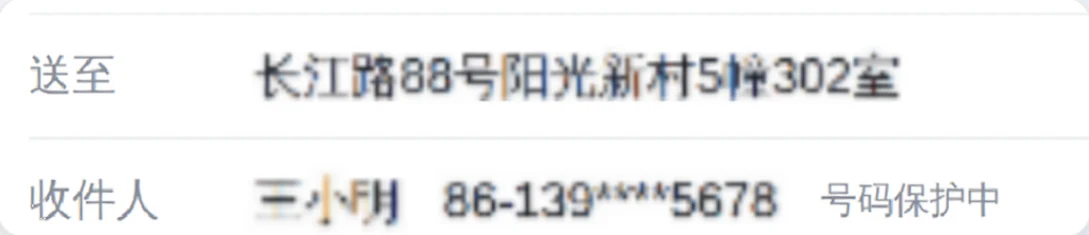
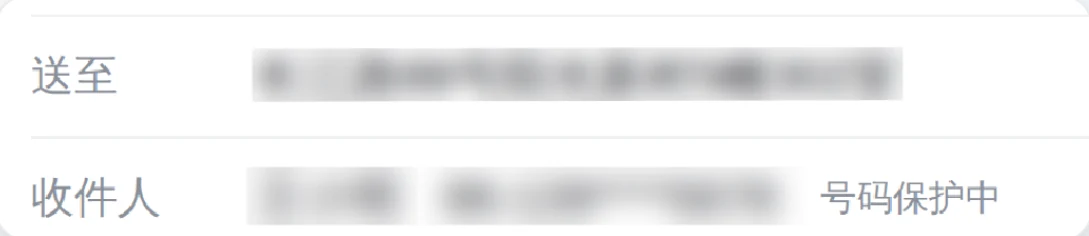
docs: five styles, no 表情 or 抹除 in README, site or Play listing
表情 is gone and 抹除 became 色块's 近似色, so the docs list 色块, 马赛克,
模糊, 马克笔, 画笔 to match MaskStyleInfo.ORDER. The site drops the 表情
and 抹除 tiles and gains a 画笔 one; the callout no longer says the app
warns about weak styles. Mosaic and blur now default to the middle
setting, so the tiles stop saying they can only go stronger.

styles.png is re-shot from the current editor: the style bar's reminder
row is gone and all five shots put the sample at the same height, so
one crop offset replaces y0/y39. The site tiles are re-cropped from it.

diff --git a/site/index.html b/site/index.html
@@ -200,47 +200,42 @@
       <div class="wrap">
         <header class="sec-head">
           <p class="eyebrow">打码样式</p>
-          <h2 id="styles-title">六种样式，每一块码各用各的。</h2>
-          <p class="lead">预览和导出用同一套渲染器，导出的就是你看到的。下面六张图裁自应用在样图上的真实渲染。</p>
+          <h2 id="styles-title">五种样式，每一块码各用各的。</h2>
+          <p class="lead">预览和导出用同一套渲染器，导出的就是你看到的。下面五张图裁自应用在样图上的真实渲染。</p>
         </header>
         <!-- 小图由 tools/site/crop_style_tiles.py 从 docs/readme/styles.png 裁出 -->
         <ul class="tiles">
           <li class="tile">
             <div class="tile-head"><h3>色块</h3><span class="badge badge-safe">不可还原</span></div>
             <img src="img/style-solid.webp" width="1089" height="235" loading="lazy" decoding="async" alt="色块样式：地址、人名和电话被不透明的天蓝色块盖住">
-            <p>默认样式。颜色可以选预设、自定义，也能用吸管从图上取。</p>
-          </li>
-          <li class="tile">
-            <div class="tile-head"><h3>表情</h3><span class="badge badge-safe">不可还原</span></div>
-            <img src="img/style-emoji.webp" width="1089" height="235" loading="lazy" decoding="async" alt="表情样式：深色底块上放着笑脸表情">
-            <p>20 个表情，底色可调，放一个或者排满一行。</p>
-          </li>
-          <li class="tile">
-            <div class="tile-head"><h3>抹除</h3><span class="badge badge-safe">不可还原</span></div>
-            <img src="img/style-erase.webp" width="1089" height="236" loading="lazy" decoding="async" alt="抹除样式：文字所在的区域被周围的白色填平，看不出原来有字">
-            <p>用周围的颜色把区域填平。背景太复杂时改用色块。</p>
+            <p>默认样式。颜色可以选预设、自定义、用吸管从图上取，或者取周围的近似色。</p>
           </li>
           <li class="tile">
             <div class="tile-head"><h3>马赛克</h3><span class="badge badge-warn">可能被还原</span></div>
             <img src="img/style-pixelate.webp" width="1089" height="235" loading="lazy" decoding="async" alt="马赛克样式：文字被像素化成色块">
-            <p>颗粒粗细可调，只能比默认更粗。</p>
+            <p>颗粒粗细可调。</p>
           </li>
           <li class="tile">
             <div class="tile-head"><h3>模糊</h3><span class="badge badge-warn">可能被还原</span></div>
-            <img src="img/style-blur.webp" width="1089" height="235" loading="lazy" decoding="async" alt="模糊样式：文字被高斯模糊，仍能看出大致轮廓">
-            <p>高斯模糊，强度只能比默认更强。</p>
+            <img src="img/style-blur.webp" width="1089" height="236" loading="lazy" decoding="async" alt="模糊样式：文字被高斯模糊，仍能看出大致轮廓">
+            <p>高斯模糊，强度可调。</p>
           </li>
           <li class="tile">
             <div class="tile-head"><h3>马克笔</h3><span class="badge badge-warn">不遮盖内容</span></div>
-            <img src="img/style-marker.webp" width="1089" height="236" loading="lazy" decoding="async" alt="马克笔样式：文字上盖着半透明的黄色高亮，内容仍然清楚可读">
-            <p>半透明高亮，只做标记。颜色可调，浓淡最高 70%。</p>
+            <img src="img/style-marker.webp" width="1089" height="235" loading="lazy" decoding="async" alt="马克笔样式：文字上盖着半透明的黄色高亮，内容仍然清楚可读">
+            <p>半透明高亮，只做标记。颜色、粗细可调，浓淡最高 70%。</p>
+          </li>
+          <li class="tile">
+            <div class="tile-head"><h3>画笔</h3><span class="badge badge-warn">不遮盖内容</span></div>
+            <img src="img/style-pen.webp" width="1089" height="235" loading="lazy" decoding="async" alt="画笔样式：地址、人名和电话各被一圈不透明的红线框住，内容仍然清楚可读">
+            <p>不透明的线，只做标记。手画或拉框，颜色、粗细可调。</p>
           </li>
         </ul>
         <aside class="callout">
           <svg class="i" aria-hidden="true"><use href="#i-alert"/></svg>
           <div>
             <h3>马赛克和模糊不等于安全</h3>
-            <p>截图的字体固定、背景干净，马赛克可以被逐字还原。需要真正隐藏信息时，请用色块、表情或抹除；选了后三种时，应用里也会提示。<a href="https://github.com/FlintyLemming/yomark/blob/main/docs/release-checklist.md">看实测记录</a></p>
+            <p>截图的字体固定、背景干净，马赛克可以被逐字还原。需要真正隐藏信息时，请用色块。<a href="https://github.com/FlintyLemming/yomark/blob/main/docs/release-checklist.md">看实测记录</a></p>
           </div>
         </aside>
       </div>

diff --git a/docs/readme/src/styles.html b/docs/readme/src/styles.html
@@ -1,6 +1,6 @@
 <!doctype html>
-<!-- README 的六种打码样式对照。node docs/readme/src/render.cjs styles 渲染成 docs/readme/styles.png
-     六块小图裁自 ReadmeScreenshots 拍的编辑器截图（docs/readme/shots/），是应用的真实渲染结果。 -->
+<!-- 五种样式对照，落地页的样式小图从这里裁。node docs/readme/src/render.cjs styles 渲染成 docs/readme/styles.png
+     五块小图裁自 ReadmeScreenshots 拍的编辑器截图（docs/readme/shots/），是应用的真实渲染结果。 -->
 <html lang="zh-CN">
 <head>
 <meta charset="utf-8">
@@ -41,40 +41,34 @@
     border: 1px solid rgba(16, 16, 20, 0.08);
     box-shadow: 0 2px 6px rgba(16, 16, 20, 0.05), 0 14px 34px rgba(16, 16, 20, 0.08);
   }
+  /* 截图里「送至」「收件人」两行的位置：五张截图里图片都在同一处 */
   .tile img {
-    position: absolute; left: calc(-60px * var(--k));
+    position: absolute; left: calc(-60px * var(--k)); top: calc(-1322px * var(--k));
     width: calc(1236px * var(--k));
   }
-  /* 截图里图片的位置：带提醒文字的样式底栏高一行，图上移 39px */
-  .tile img.y0 { top: calc(-1232px * var(--k)); }
-  .tile img.y39 { top: calc(-1193px * var(--k)); }
 </style>
 </head>
 <body>
   <div class="grid">
     <section>
       <div class="cap"><b>色块</b><span>默认样式 · 不可还原</span></div>
-      <div class="tile"><img class="y0" src="../shots/editor.png" alt=""></div>
-    </section>
-    <section>
-      <div class="cap"><b>表情</b><span>不可还原</span></div>
-      <div class="tile"><img class="y0" src="../shots/editor-emoji.png" alt=""></div>
-    </section>
-    <section>
-      <div class="cap"><b>抹除</b><span>不可还原</span></div>
-      <div class="tile"><img class="y0" src="../shots/editor-erase.png" alt=""></div>
+      <div class="tile"><img src="../shots/editor.png" alt=""></div>
     </section>
     <section>
       <div class="cap"><b>马赛克</b><span class="warn">可能被还原</span></div>
-      <div class="tile"><img class="y39" src="../shots/editor-pixelate.png" alt=""></div>
+      <div class="tile"><img src="../shots/editor-pixelate.png" alt=""></div>
     </section>
     <section>
       <div class="cap"><b>模糊</b><span class="warn">可能被还原</span></div>
-      <div class="tile"><img class="y39" src="../shots/editor-blur.png" alt=""></div>
+      <div class="tile"><img src="../shots/editor-blur.png" alt=""></div>
     </section>
     <section>
       <div class="cap"><b>马克笔</b><span class="warn">只做标记，不遮盖</span></div>
-      <div class="tile"><img class="y39" src="../shots/editor-marker.png" alt=""></div>
+      <div class="tile"><img src="../shots/editor-marker.png" alt=""></div>
+    </section>
+    <section>
+      <div class="cap"><b>画笔</b><span class="warn">只做标记，不遮盖</span></div>
+      <div class="tile"><img src="../shots/editor-pen.png" alt=""></div>
     </section>
   </div>
 </body>

diff --git a/app/src/test/java/moe/flinty/yomark/readme/ReadmeScreenshots.kt b/app/src/test/java/moe/flinty/yomark/readme/ReadmeScreenshots.kt
@@ -36,7 +36,7 @@ import org.robolectric.annotation.GraphicsMode
 import java.io.File
 
 /**
- * README 里六种打码样式对照图（docs/readme/styles.png）用的截图。不是测试，平时跳过；要重拍时：
+ * 样式对照图（docs/readme/styles.png，落地页的样式小图从它裁）用的截图。不是测试，平时跳过；要重拍时：
  *
  *     YOMARK_SHOTS_DIR=$PWD/docs/readme/shots ./gradlew :app:testDebugUnitTest --tests '*ReadmeScreenshots*'
  *     node docs/readme/src/render.cjs styles

diff --git a/tools/site/crop_style_tiles.py b/tools/site/crop_style_tiles.py
@@ -1,4 +1,4 @@
-"""把 README 的样式对照图 docs/readme/styles.png 裁成六张小图，给落地页（site/）用。
+"""把 README 的样式对照图 docs/readme/styles.png 裁成五张小图，给落地页（site/）用。
 
     python3 tools/site/crop_style_tiles.py   # 需要 Pillow
 
@@ -22,8 +22,8 @@ ROW_GAP, COL_GAP = 30, 56
 LEFT, TOP = 64, 54           # body 的 padding
 INSET = 4                    # 往里收几个像素，去掉卡片的描边和抗锯齿
 
-# 网格按列排：左列色块、表情、抹除，右列马赛克、模糊、马克笔
-COLUMNS = [['solid', 'emoji', 'erase'], ['pixelate', 'blur', 'marker']]
+# 网格按列排：左列色块、马赛克、模糊（「打码」），右列马克笔、画笔（「编辑」）
+COLUMNS = [['solid', 'pixelate', 'blur'], ['marker', 'pen']]
 
 
 def main():

diff --git a/README.md b/README.md
@@ -14,7 +14,7 @@
 
 - **自动识别**：内置 PP-OCRv6 文字识别，配合规则引擎判断哪些内容属于敏感信息；人脸和条码由 ML Kit 的离线模型识别。
 - **点一下增减**：识别出来的直接打码，点一下码就拿掉；点一下没打码的字，就把那一行打上码。
-- **六种样式**：色块、表情、抹除、马赛克、模糊、马克笔，每一块码各用各的样式。色块的颜色、表情和底色、马赛克的粗细、模糊的强度、马克笔的颜色和浓淡都能调，还能用吸管从图上取色。预览和导出使用同一套渲染器，所见即所得。
+- **五种样式**：色块、马赛克、模糊、马克笔、画笔，每一块码各用各的样式。色块的颜色（或周围的近似色）、马赛克的粗细、模糊的强度、马克笔和画笔的颜色、粗细都能调，还能用吸管从图上取色。预览和导出使用同一套渲染器，所见即所得。
 - **手动补框**：单指拖出一个框补上漏掉的地方，双指缩放和平移。
 - **批量处理**：从相册一次分享多张图，或在应用里一次选多张。底部的胶片条上点哪张看哪张，每张第一次打开时才识别，看完一起导出。
 - **替别的应用选图**：别的应用要图时可以选「有码」，比如 Telegram 附件面板拉到全屏后，右上角「⋮」里的「在外部应用中打开」。选好图、打完码点「完成」，图直接交回给它，不存进相册。
@@ -119,7 +119,7 @@ app/src/main/java/moe/flinty/yomark/
   core/      几何、图片读取、打码方案（MaskPlan）的数据模型
   engine/    OCR、人脸、条码的封装，候选去重合并
   rules/     敏感信息规则与校验位
-  render/    六种样式的渲染器，预览和导出共用
+  render/    五种样式的渲染器，预览和导出共用
   export/    原图重绘、品牌水印、用途水印、写入相册（或交给来要图的应用）
   ui/        首页、编辑器、设置（Jetpack Compose）
   billing/   发行版本开关（开源版免费）、去水印的一次性购买
